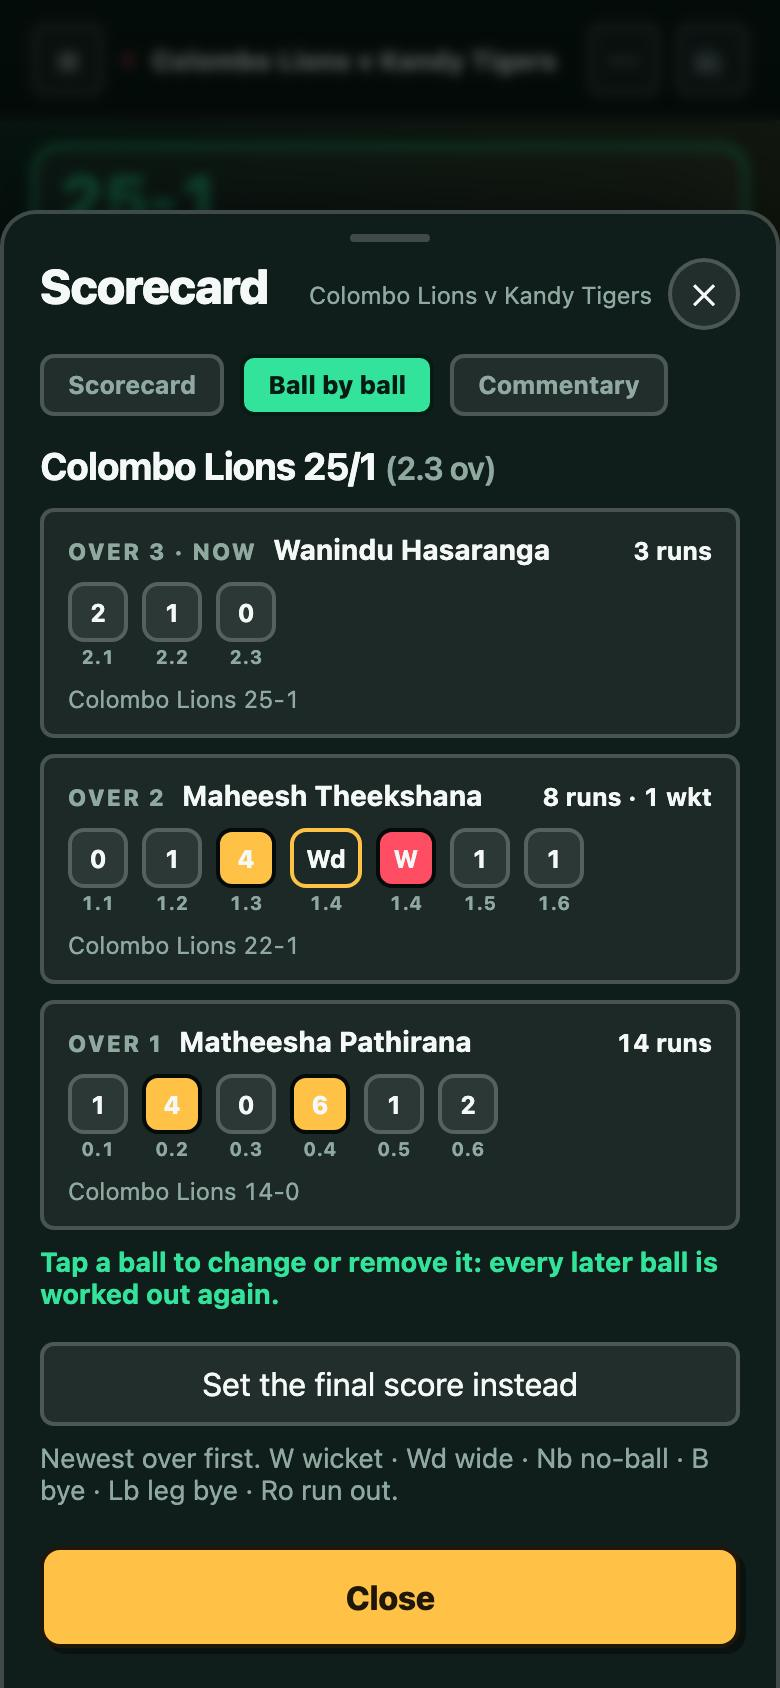
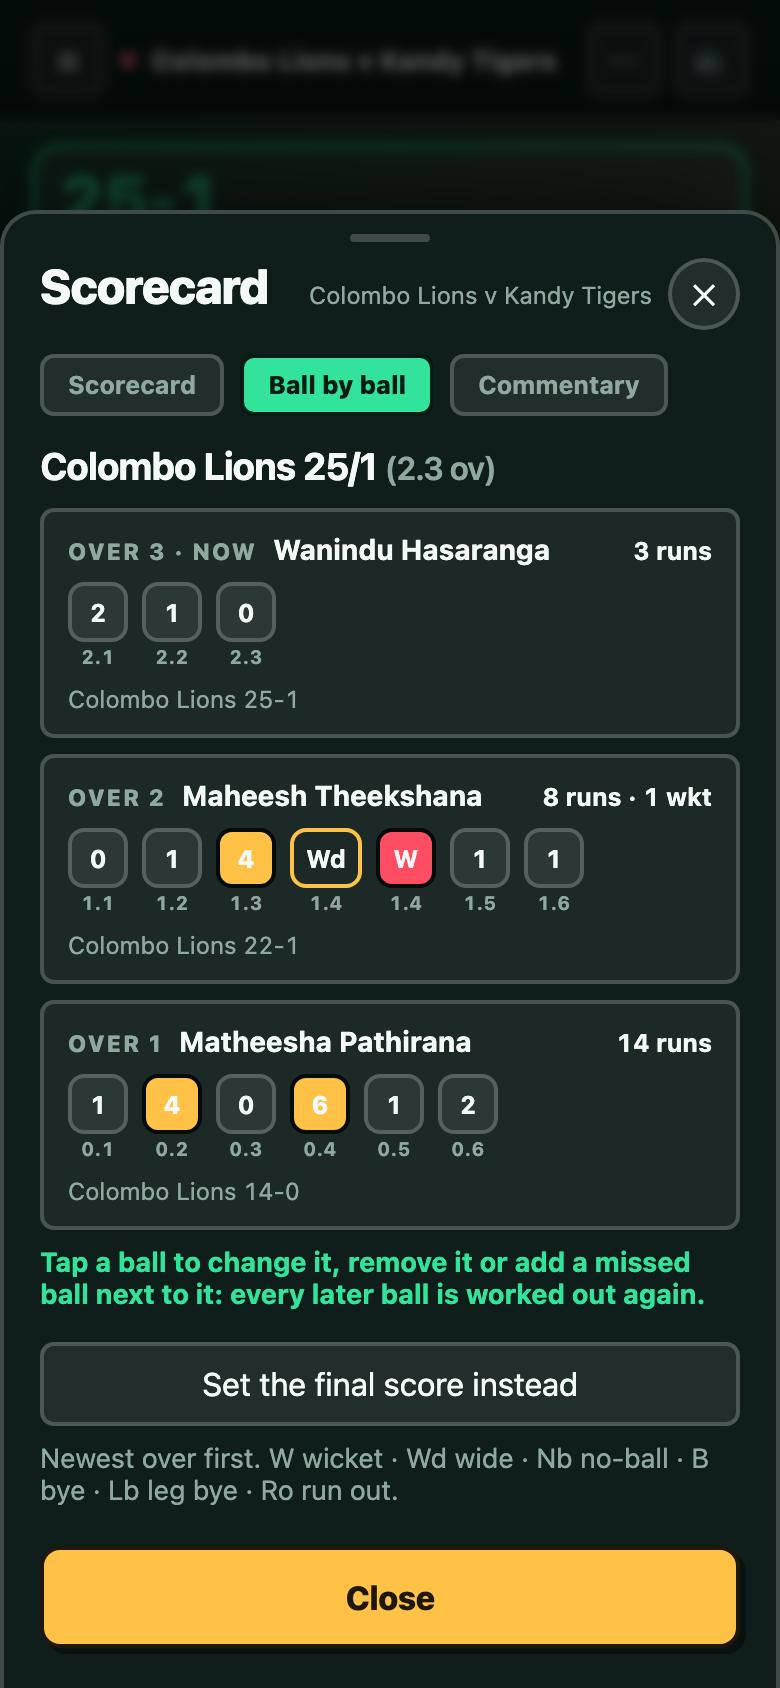
Tutorial: big-moment graphics, add/remove a ball, reopen an innings; fresh screenshots
- Live scoring step: the 4 / 6 / W / 50 / 100 graphics (new screenshot of
  a six), and the over rail that slides to the latest ball.
- Match options & Ball by ball: Reopen innings, + Ball before / after,
  Remove ball and "Was a ball missed instead?" (new edit-sheet screenshot).
- Innings break & Result: reopening an innings, the Undo row, confetti.
- Every screenshot re-captured from the current app. Captures now finish
  one-shot animations before each shot, and freezeMoment() freezes a
  stinger mid-animation for the big-moment shot.

Changed region(s): [[0.0615, 0.7393, 0.9231, 0.8009]]

diff --git a/tutorial.html b/tutorial.html
@@ -201,21 +201,25 @@
       </div>
     </div>
 
-    <div class="step">
+    <div class="step two">
       <div>
         <h3>3 · The live scoring screen <span class="lvl easy">Beginner</span></h3>
         <p>Everything fits on one screen:</p>
         <ul>
           <li><b>Score</b>, overs and run rate at the top (and the target, runs needed and required rate in a chase).</li>
           <li>The <b>batters</b> (▶ marks the striker), the <b>bowler</b>, the partnership and last wicket.</li>
-          <li>The <b>over rail</b> — every ball of this over, and the last one.</li>
+          <li>The <b>over rail</b> — every ball of this over, and the last one. A wide or no-ball adds a slot, and the row slides along to keep the latest ball in view.</li>
           <li>The <b>run pad</b>: tap <span class="ui">0</span>–<span class="ui">6</span> after each ball. Strike changes and overs end automatically.</li>
           <li><span class="ui">UNDO</span> takes back the last ball — use it freely.</li>
           <li><span class="ui">⇅ Swap</span> next to BATTER changes who's on strike, if the app has it wrong (a short run, a missed single).</li>
         </ul>
-        <div class="tip"><b>Tip</b>The ⋯ button at the top opens Match options (step 7).</div>
+        <p><b>Big moments.</b> A four, a six, a wicket, or a batter reaching 50 or 100 flashes up over the board, TV-style: stripes sweep across and a giant <b>4</b>, <b>6</b>, <b>W</b>, <b>50</b> or <b>100</b> punches in (a wicket and a milestone name the batter). The score stays in view above it, it clears by itself in about a second, and it never covers the run pad, so you can keep scoring straight through it.</p>
+        <div class="tip"><b>Tip</b>The ⋯ button at the top opens Match options (step 7). If your phone is set to <i>reduce motion</i>, the big moments are switched off.</div>
       </div>
-      <div class="shots"><figure><a class="phone" href="tutorial/img/08-live.jpg"><img src="tutorial/img/08-live.jpg" alt="Live scoring screen" width="390" height="844" loading="lazy"></a><figcaption>Live scoring</figcaption></figure></div>
+      <div class="shots">
+        <figure><a class="phone" href="tutorial/img/08-live.jpg"><img src="tutorial/img/08-live.jpg" alt="Live scoring screen" width="390" height="844" loading="lazy"></a><figcaption>Live scoring</figcaption></figure>
+        <figure><a class="phone" href="tutorial/img/08b-big-moment.jpg"><img src="tutorial/img/08b-big-moment.jpg" alt="A six flashing up over the scoreboard" width="390" height="844" loading="lazy"></a><figcaption>A six — big moments flash up</figcaption></figure>
+      </div>
     </div>
 
     <div class="step">
@@ -280,16 +284,19 @@
           <li><b>Set the final score</b> — rather type the totals than fix balls? Enter each side's runs, wickets and overs and the result is worked out. Like a catch-up, the match then doesn't count towards player stats.</li>
           <li><b>Name Bat ?1 / Bowl ?1</b> — shown while a player is still unnamed; see step 6 above.</li>
           <li><b>End innings</b> — rain, time, a declaration.</li>
+          <li><b>Reopen … innings</b> — ended an innings by mistake? Carry on batting from where it stopped (see step 8).</li>
           <li><b>Forfeit</b> — one team concedes; pick the team, then confirm.</li>
           <li><b>Cancel match</b> — discard it with no result.</li>
           <li><b>Switch players</b> (when the sides come from saved teams) and <b>Show nicknames</b> (club matches).</li>
         </ul>
         <p><span class="ui">Full scorecard</span> under the Wicket button opens every innings, with a <b>Ball by ball</b> tab listing each over.</p>
         <p><b>Fixing a ball:</b> in Ball by ball, tap any ball to change what happened (runs, an extra, a wicket — including a wicket off a wide or no-ball) or remove it. Everything after it is worked out again: if the change adds a wicket, the next batter simply came in earlier (the app asks for a name if it needs one); if it removes one, that batter carries on. You see the old and new score before saving, and Undo takes it back. It works during the match, at the innings break and on the Result screen (a finished match must stay finished).</p>
+        <p><b>A ball missed, or one too many?</b> On the same sheet, <span class="ui">+ Ball before</span> or <span class="ui">+ Ball after</span> adds a ball the scorer missed, and <span class="ui">Remove ball</span> takes one out. Later balls move along, and the review before you save says which overs shift. Taking out a ball asks <i>Was a ball missed instead?</i> — you can add the missing one at the end of that over (or of the innings) in the same change, so the overs and bowlers still line up. An over that was left short shows a dashed <span class="ui">+</span> at its end in Ball by ball.</p>
       </div>
       <div class="shots">
         <figure><a class="phone" href="tutorial/img/15-match-options.jpg"><img src="tutorial/img/15-match-options.jpg" alt="Match options" width="390" height="844" loading="lazy"></a><figcaption>Match options (⋯)</figcaption></figure>
         <figure><a class="phone" href="tutorial/img/17-ball-by-ball.jpg"><img src="tutorial/img/17-ball-by-ball.jpg" alt="Ball by ball" width="390" height="844" loading="lazy"></a><figcaption>Scorecard → Ball by ball</figcaption></figure>
+        <figure><a class="phone" href="tutorial/img/17b-edit-ball.jpg"><img src="tutorial/img/17b-edit-ball.jpg" alt="Edit a ball, add one before or after, or remove it" width="390" height="844" loading="lazy"></a><figcaption>Change, add or remove a ball</figcaption></figure>
       </div>
     </div>
 
@@ -297,8 +304,9 @@
       <div>
         <h3>8 · Innings break and the result <span class="lvl easy">Beginner</span></h3>
         <p>When the first innings ends you get the <b>innings break</b>: top scorers, best bowlers and the target. Tap <span class="ui">Start 2nd innings</span> and name the new openers.</p>
-        <p>When the chase ends, the <b>Result</b> screen shows who won and by how much, and the <b>Player of the match</b> — picked automatically from runs, wickets and catches. You can change it.</p>
+        <p>When the chase ends, the <b>Result</b> screen shows who won and by how much (with a little confetti for a win), and the <b>Player of the match</b> — picked automatically from runs, wickets and catches. You can change it.</p>
         <p>The match is saved to your history: it feeds Stats, MVP and any points table.</p>
+        <p><b>Ended an innings too soon?</b> If you ended it yourself (End innings, or a score set by hand), tap <span class="ui">↺ Reopen … innings</span> on the innings break or the Result screen and carry on batting from where it stopped. Reopening the first innings clears the chase, since its target isn't final any more. An innings that was all out, ran out of overs or reached the target can't be reopened. Fix a ball instead (step 7). When there's nothing to reopen, the same row offers <span class="ui">↶ Undo last ball</span> (or <span class="ui">Undo forfeit</span>). A finished match keeps its result in history until it finishes again.</p>
       </div>
       <div class="shots">
         <figure><a class="phone" href="tutorial/img/18-innings-break.jpg"><img src="tutorial/img/18-innings-break.jpg" alt="Innings break" width="390" height="844" loading="lazy"></a><figcaption>Innings break</figcaption></figure>

diff --git a/scripts/tutorial/cap-lib.js b/scripts/tutorial/cap-lib.js
@@ -15,10 +15,25 @@ async function setup(){
   p.on('pageerror', e => console.log('ERR', e.message));
   const run = js => p.evaluate(js => { const s = document.createElement('script'); s.textContent = js; document.body.appendChild(s); }, js);
   const tap = async (sel) => { await p.evaluate(sel => { const el = document.querySelector(sel); if (!el) throw new Error('no ' + sel); el.click(); }, sel); await p.waitForTimeout(250); };
-  const shot = async (name, opts) => { await p.waitForTimeout(350); await p.screenshot({ path: OUT + name + '.jpg', type: 'jpeg', quality: 74, ...(opts || {}) }); console.log('shot', name); };
+  // animations:'disabled' finishes the one-shot entrances (tiles rising in,
+  // sheets sliding up) before the shot, so none is caught half-faded. Pass
+  // { animations: 'allow' } to keep a frame you froze on purpose.
+  const shot = async (name, opts) => { await p.waitForTimeout(350); await p.screenshot({ path: OUT + name + '.jpg', type: 'jpeg', quality: 74, animations: 'disabled', ...(opts || {}) }); console.log('shot', name); };
+  // Paint a live moment (the 4/6/W stinger) on the current board without
+  // recording a ball, and freeze it at `ms` into its animation for a shot.
+  const freezeMoment = (kind, label, sub, ms) => p.evaluate(([kind, label, sub, ms]) => {
+    // A ball just scored may have left its own (hidden) stinger behind.
+    document.querySelectorAll('#app .moment.stinger').forEach(e => e.remove());
+    const s = document.createElement('script');
+    s.textContent = `liveMoment = ${JSON.stringify({ kind, label, sub })}; playLiveMoment();`;
+    document.body.appendChild(s);
+    const el = document.querySelector('#app .moment.stinger');
+    el.style.setProperty('display', 'block', 'important'); // hideBanner hides moments
+    el.getAnimations({ subtree: true }).forEach(a => { a.pause(); a.currentTime = ms; });
+  }, [kind, label, sub || null, ms]);
   // Also hides the one-shot celebrations (confetti, live moments), so a shot
   // never catches one mid-flight.
   const hideBanner = () => p.addStyleTag({ content: '#install-banner,.confetti,.moment{display:none!important}' });
-  return { b, ctx, p, run, tap, shot, hideBanner };
+  return { b, ctx, p, run, tap, shot, hideBanner, freezeMoment };
 }
 module.exports = { setup, BASE };

diff --git a/scripts/tutorial/cap1.js b/scripts/tutorial/cap1.js
@@ -1,6 +1,6 @@
 const { setup, BASE } = require('./cap-lib.js');
 (async () => {
-  const { b, p, run, tap, shot, hideBanner } = await setup();
+  const { b, p, run, tap, shot, hideBanner, freezeMoment } = await setup();
   await p.goto(BASE, { waitUntil: 'domcontentloaded' });
   await p.waitForTimeout(250); await shot('01-splash');
   await p.waitForTimeout(4200); await shot('02-install');
@@ -29,6 +29,9 @@ const { setup, BASE } = require('./cap-lib.js');
   await p.fill('#new-bowler-form [name=name]', 'Maheesh Theekshana'); await tap('#new-bowler-form button[type=submit]');
   for (const r of [0, 1, 4]) await ball(r);
   await shot('08-live');
+  // A big moment (the broadcast-style stinger), frozen mid-animation; no ball recorded.
+  await freezeMoment('six', 'SIX', null, 560); await shot('08b-big-moment', { animations: 'allow' });
+  await run('render();');
   await tap('#app [data-action="toggle-extra"][data-extra="wide"]'); await shot('09-extras');
   await tap('#modal-root [data-action="ball"]');
   await tap('#app [data-action="open-wicket"]'); await tap('#modal-root [data-action="pick-wicket"][data-type="caught"]');
@@ -51,6 +54,9 @@ const { setup, BASE } = require('./cap-lib.js');
   await tap('#modal-root [data-action="name-later-pick"][data-name="Charith Asalanka"]');
   await tap('#app [data-action="open-live-scorecard"]'); await shot('16-scorecard');
   await tap('#modal-root [data-action="scorecard-mode"][data-tab="balls"]'); await shot('17-ball-by-ball');
+  // Tap a ball: change it, remove it, or add a missed ball next to it.
+  await tap('#modal-root [data-action="edit-ball"][data-label="0.4"]'); await shot('17b-edit-ball');
+  await tap('#modal-root [data-action="close-ball-edit"]');
   await run('ui.liveScorecard=false; render();');
   // finish the innings quickly, then the break
   await run(`{ const m = state.match; endInnings(m); save(); render(); }`);

diff --git a/CLAUDE.md b/CLAUDE.md
@@ -1878,9 +1878,16 @@ ordered easy → advanced in nine chapters, with phone screenshots in
 app" goes back). Not in `sw.js`' cache list, like `admin.html`. The
 screenshots come from `scripts/tutorial/cap1–3.js` (Playwright against a
 local server, Supabase blocked, club/Premier screens drawn from sample data
-injected into the page — see the header of `cap-lib.js`). **When a screen it
+injected into the page — see the header of `cap-lib.js`). Every `shot()`
+finishes the one-shot animations first (`animations: 'disabled'`), and
+`freezeMoment(kind, label, sub, ms)` paints a live-moment stinger frozen
+mid-animation without recording a ball (`08b-big-moment`, shot with
+`{ animations: 'allow' }`). **When a screen it
 shows changes, re-run the matching script and update the page text**; delete
-any image the page no longer references.
+any image the page no longer references (the scripts also write a few the
+page doesn't use, e.g. `01-splash`, `16-scorecard`, `40-sign-in`). Run the
+scripts one at a time: in parallel, `python3 -m http.server` drops script
+requests and a shot catches a half-loaded page.
 
 ## Deployment
 
